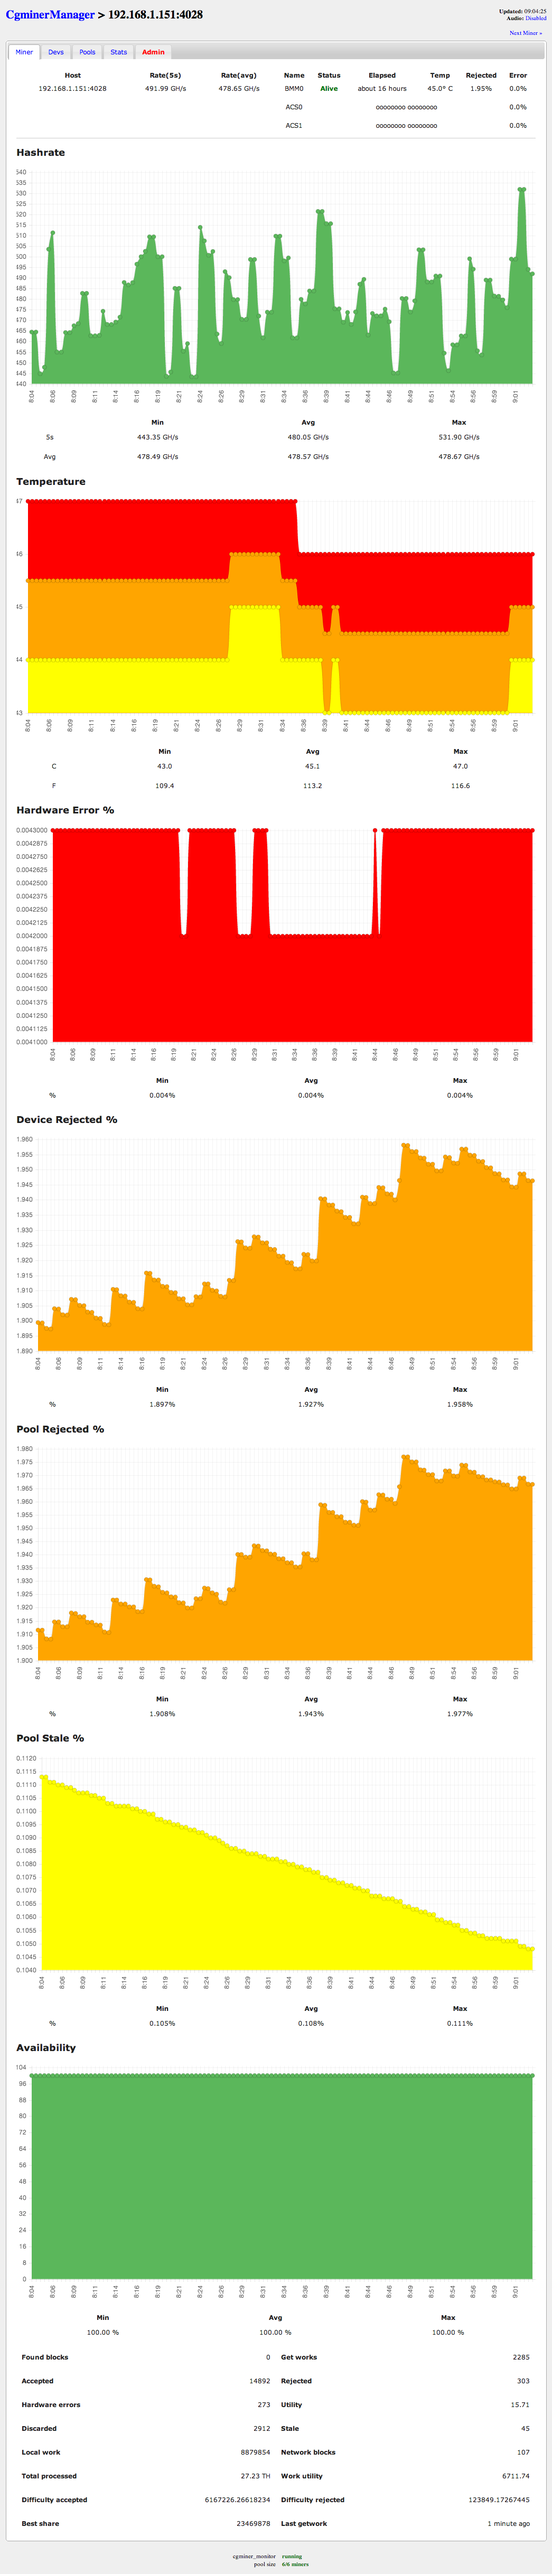
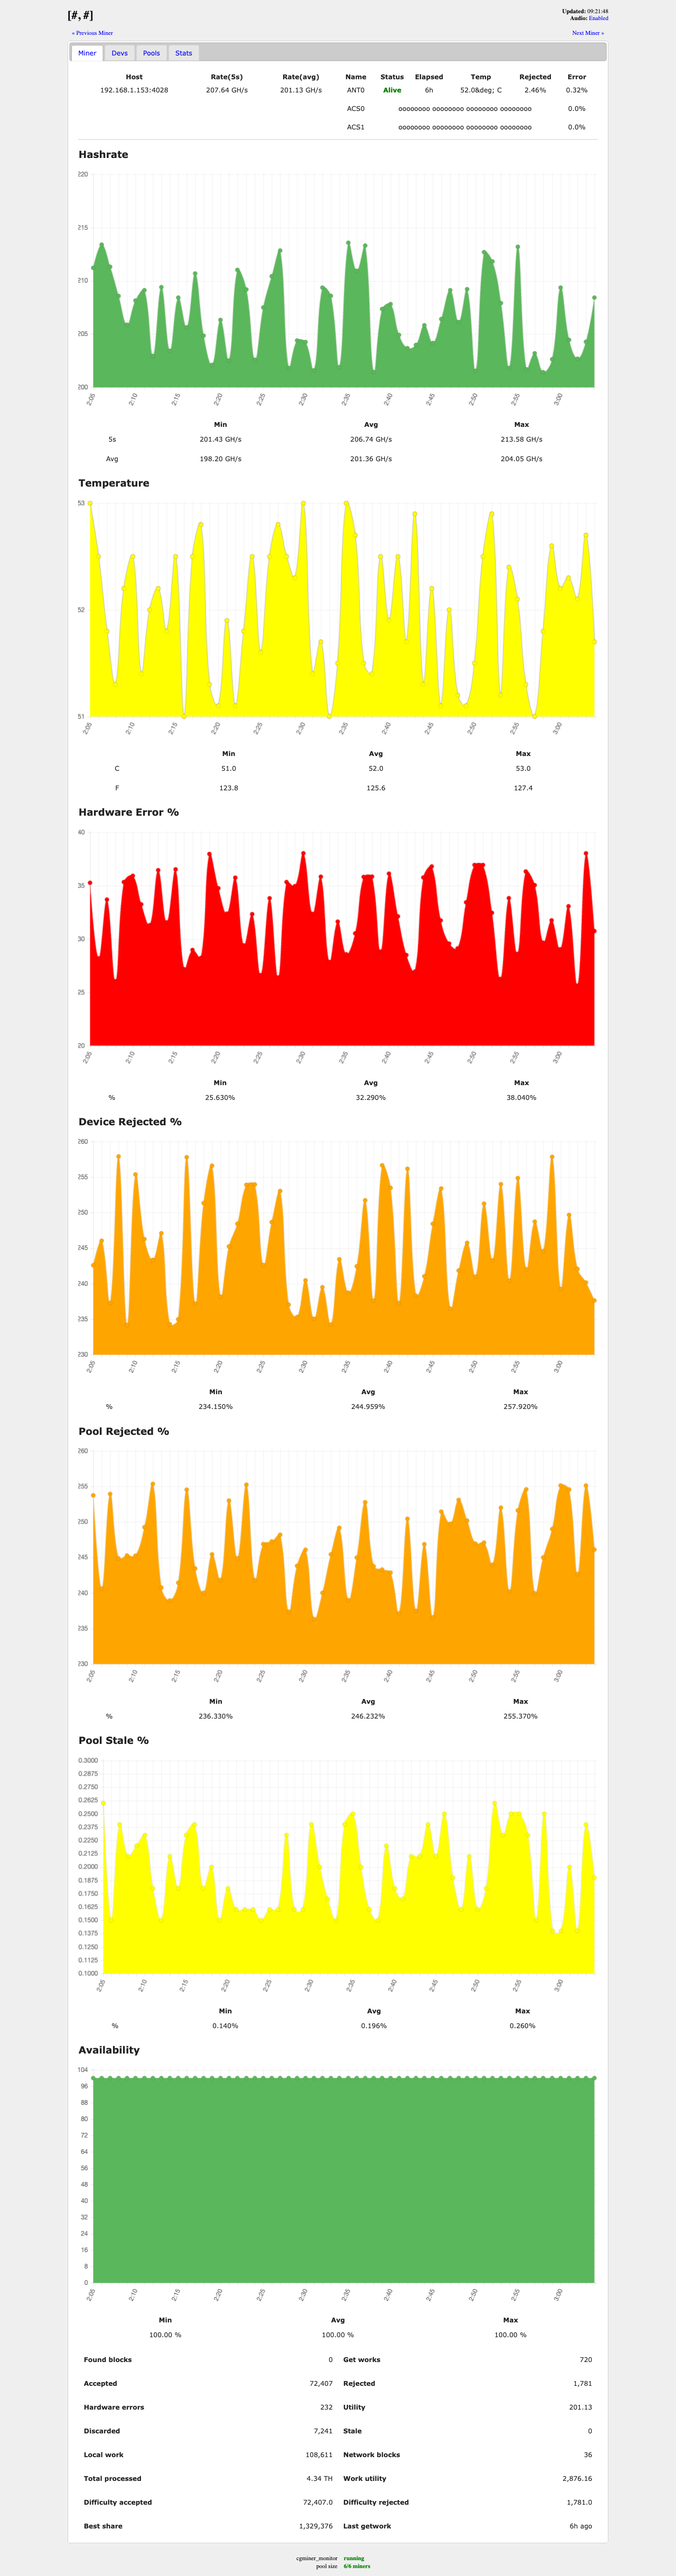
docs: regenerate dashboard + miner-detail screenshots for 1.1.0 UI
Replaces the 2014-era screenshots that were left behind when the Rails
tree was removed. New images show the Sinatra rich UI rendered against
a 6-miner mocked fleet (see dev/screenshots/): full dashboard plus
Antminer S1 and S3 detail pages.

README gains a Screenshots section above the requirements block.

diff --git a/README.md b/README.md
@@ -2,6 +2,24 @@
 
 Web UI for operating cgminer rigs. Displays data fetched from [`cgminer_monitor`](https://github.com/jramos/cgminer_monitor) and issues pool-management commands to miners via [`cgminer_api_client`](https://github.com/jramos/cgminer_api_client).
 
+## Screenshots
+
+### Dashboard
+
+![Dashboard](public/screenshots/dashboard.png)
+
+Aggregate hashrate, temperature, and error rates across the pool, with a per-miner row summary at the bottom.
+
+### Miner detail — Antminer S1
+
+![Antminer S1 detail](public/screenshots/miner.png)
+
+### Miner detail — Antminer S3
+
+![Antminer S3 detail](public/screenshots/miner-s3.png)
+
+Screenshots are generated from a scripted harness in `dev/screenshots/` — see that directory's README for how to regenerate.
+
 ## Requirements
 
 - Ruby 3.2+ (4.0.2 recommended; see `.ruby-version`)
